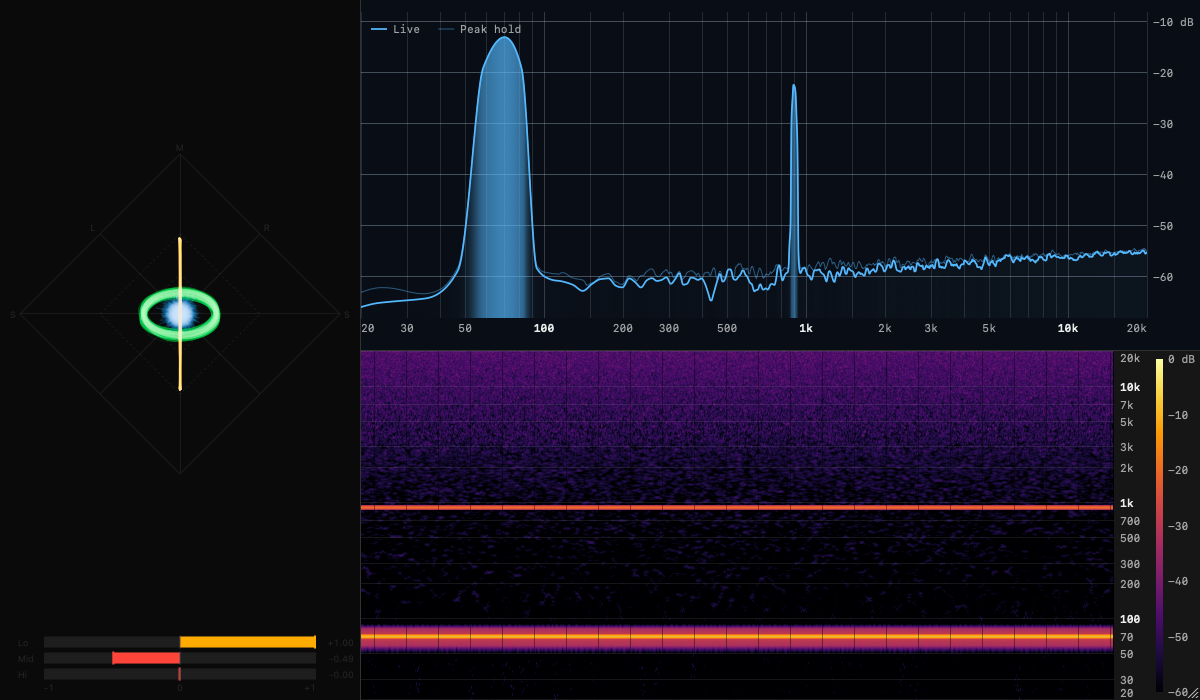
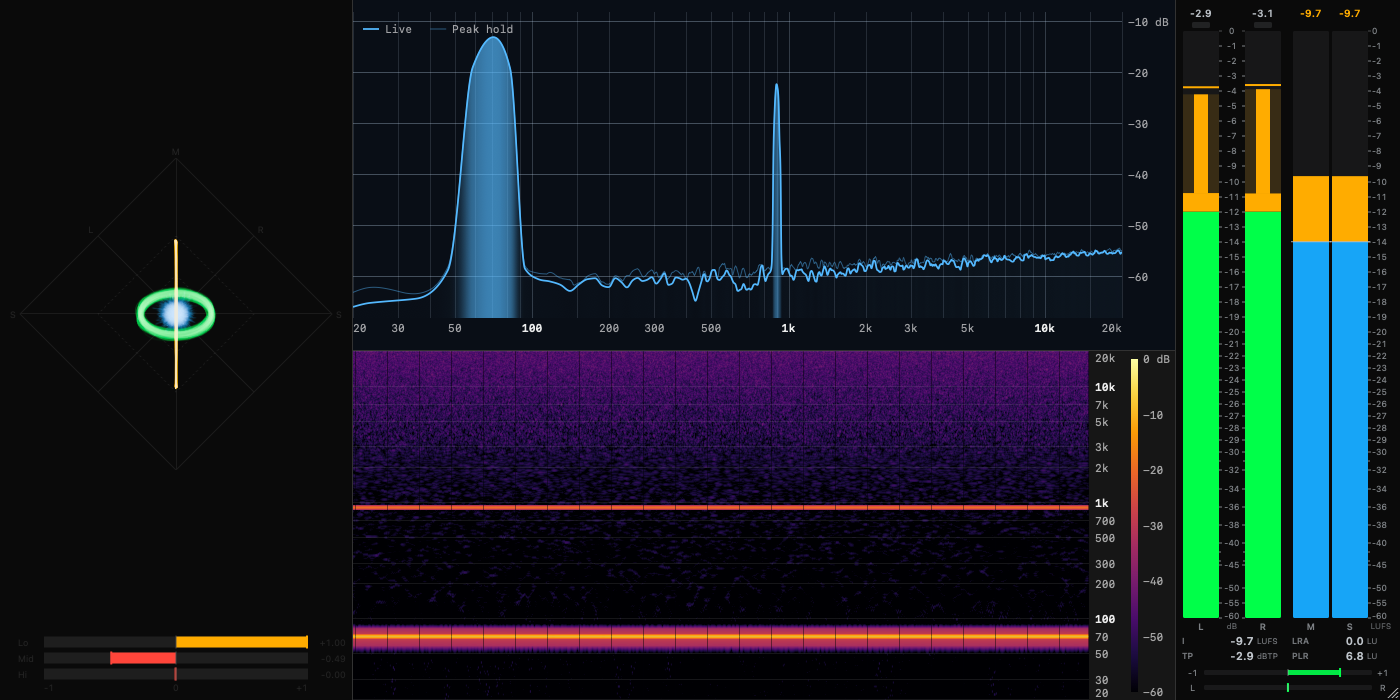
docs: P31 Meter in the README
The screenshots of the meter and of the suite are p31-snapshot's mix
signal, not music.

diff --git a/README.md b/README.md
@@ -5,9 +5,9 @@
 
 # p31-plugins
 
-A spectrum analyzer, a vectorscope and a spectrogram for macOS, as CLAP, VST3
-and Audio Unit plugins and standalone apps, plus P31 Suite, which shows all
-three in one window. Ported from the foobar2000 components in
+A spectrum analyzer, a vectorscope, a spectrogram and a level meter for macOS,
+as CLAP, VST3 and Audio Unit plugins and standalone apps, plus P31 Suite, which
+shows all four in one window. Ported from the foobar2000 components in
 [fb2k-components-mac-suite](https://github.com/JendaT/fb2k-components-mac-suite).
 Audio passes through untouched, with zero latency.
 
@@ -51,20 +51,41 @@ signed yet, and each release's notes explain how to open one.
   horizontal one lining up with P31 Spectrum
 - Nine colormaps, a ramp per P31 Spectrum theme, or four colours of your own
 
+## P31 Meter
+
+| Digital | Analog VU |
+|---|---|
+| ![P31 Meter, peak / RMS bars, loudness bars and figures on a test signal](assets/screenshots/p31-meter.png) | ![P31 Meter as two analog VU faces](assets/screenshots/p31-meter-analog.png) |
+
+- L / R bars: RMS as the wide bar, the peak as a slim column above it, a hold
+  line, clip lights that stay lit, the highest peak above each bar
+- True peak (4x oversampled, as BS.1770 describes) or sample peak; dBFS or
+  K-20 / K-14 / K-12 scales, extended-top or linear spacing, LED segments
+- Loudness after BS.1770 / EBU R128: momentary and short-term bars with a
+  target marker, gated integrated loudness, loudness range, true peak max and
+  PLR. It keeps measuring while the plugin window is closed
+- Phase correlation and balance bars
+- Analog VU style: Vintage, Dark or theme-coloured needle faces, VU ballistics
+  or DIN / BBC / Nordic style PPM, adjustable reference level, peak LED
+- Click the bars or readouts to reset the peaks, the loudness bars or figures
+  to start a new loudness measurement; both are in the right-click menu too,
+  with the switch between Digital and Analog VU
+
 ## P31 Suite
 
-![P31 Suite, the three panels on a test signal](assets/screenshots/p31-suite.png)
+![P31 Suite, the four panels on a test signal](assets/screenshots/p31-suite.png)
 
-- The spectrum, the scope and the spectrogram as panels of one window, on the
-  same audio; each panel is the plugin of that name, with its own settings
-  and presets
+- The spectrum, the scope, the spectrogram and the meter as panels of one
+  window, on the same audio; each panel is the plugin of that name, with its
+  own settings and presets
 - Drag the line between two panels to resize them
 - Hover over a panel and drag its move handle (the arrows, top right) to put
   the panel somewhere else: on a side of another panel, in the middle of one
   to trade places, or along an edge of the window. The place lights up before
   you drop
 - The × beside the handle hides a panel; right-click → Panels brings it back.
-  A hidden panel does no work
+  A hidden panel does no work (the meter's loudness measurement pauses with
+  it)
 - Freeze, Gain and the standalone app's Source are shared by all panels
 
 ## Using the plugins
@@ -77,8 +98,8 @@ signed yet, and each release's notes explain how to open one.
   `~/Library/Audio/Presets/P31/<plugin>/`) and "Use Current Settings for New
   Instances". Loading a preset keeps the instance's light / dark appearance.
 - **Parameters** (automatable): *Freeze* holds the picture still, *Gain*
-  (±24 dB) changes the level the analyzer sees. Audio always passes through
-  untouched.
+  (±24 dB) changes the level the analyzer sees (in P31 Meter it shifts every
+  reading). Audio always passes through untouched.
 - **Readout**: in P31 Spectrum, hover over the spectrum for the frequency, the
   nearest note with its offset in cents, and the level. In P31 Spectrogram,
   click and hold for the frequency and nearest note; drag to scrub.
@@ -113,8 +134,8 @@ a box per format, so you can install, say, only P31 Spectrum as VST3 and CLAP:
 | Audio Unit | `/Library/Audio/Plug-Ins/Components` |
 | Standalone apps | `/Applications` |
 
-To uninstall, delete `P31 Spectrum.*`, `P31 Scope.*`, `P31 Spectrogram.*` and
-`P31 Suite.*` from those folders, then
+To uninstall, delete `P31 Spectrum.*`, `P31 Scope.*`, `P31 Spectrogram.*`,
+`P31 Meter.*` and `P31 Suite.*` from those folders, then
 `pkgutil --pkgs | grep com.scannou.p31 | xargs -n1 sudo pkgutil --forget`.
 
 ## Requirements
@@ -137,7 +158,7 @@ Bundles land in `<build>/plugins/`. With `P31_COPY_AFTER_BUILD=ON` (default for
 `dev`) they are also copied to `~/Library/Audio/Plug-Ins/{CLAP,VST3,Components}`.
 
 In CLion: open the folder, enable the `dev` CMake preset, build `p31-spectrum_all`,
-`p31-scope_all`, `p31-spectrogram_all` or `p31-suite_all`.
+`p31-scope_all`, `p31-spectrogram_all`, `p31-meter_all` or `p31-suite_all`.
 
 ## Test
 
@@ -170,9 +191,10 @@ page.
 | `P31_DRAG=dx,dy` | drag the resize grip, with the host resizing like a DAW |
 | `P31_ABOUT=1` | save the About dialog instead of the editor |
 | `P31_HOLD=1` | stop the audio a second before the capture, as a stopped DAW does |
+| `P31_CLICK=x,y` | click the editor at that fraction (0,0 is top left) just before the capture: resets P31 Meter's bars or figures |
 | `P31_DUMP_STATE=1` | print the saved state at the end |
 
-For P31 Suite, where a panel is `Spectrum`, `Scope` or `Spectrogram`:
+For P31 Suite, where a panel is `Spectrum`, `Scope`, `Spectrogram` or `Meter`:
 
 | Variable | Effect |
 |---|---|
@@ -248,7 +270,8 @@ plugins/common/  shared CLAP shell (ports, state, pass-through, editor hosting)
 plugins/spectrum/
 plugins/scope/
 plugins/spectrogram/
-plugins/suite/   the three editors as panels of one window
+plugins/meter/
+plugins/suite/   the other plugins' editors as panels of one window
 dev/             developer tools (p31-snapshot)
 cmake/ scripts/  build helpers; bootstrap, validate, package, notices, icons
 patches/         fixes to submodules, applied by scripts/bootstrap.sh (see patches/README.md)
